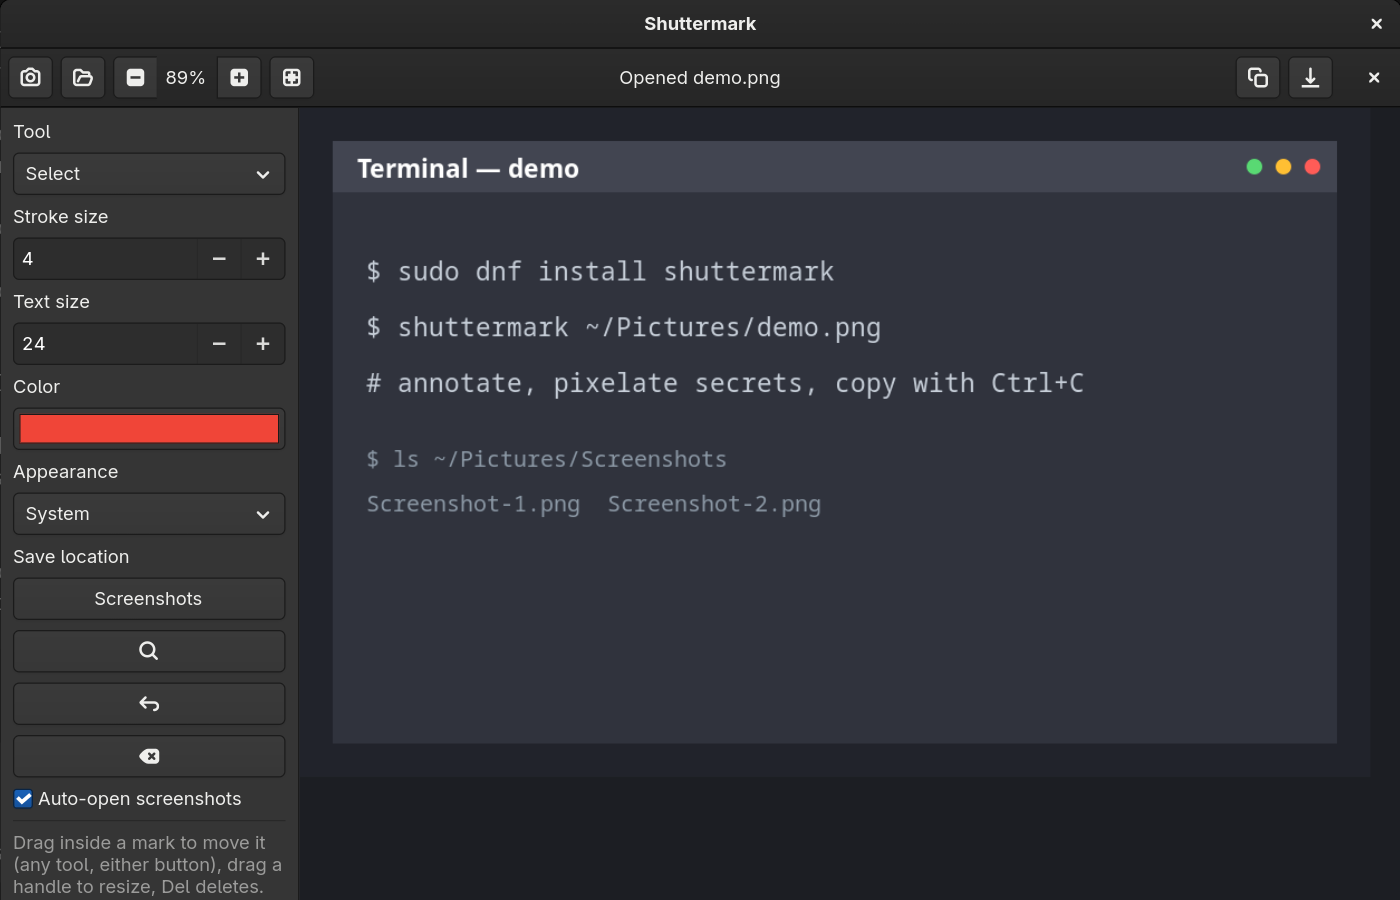
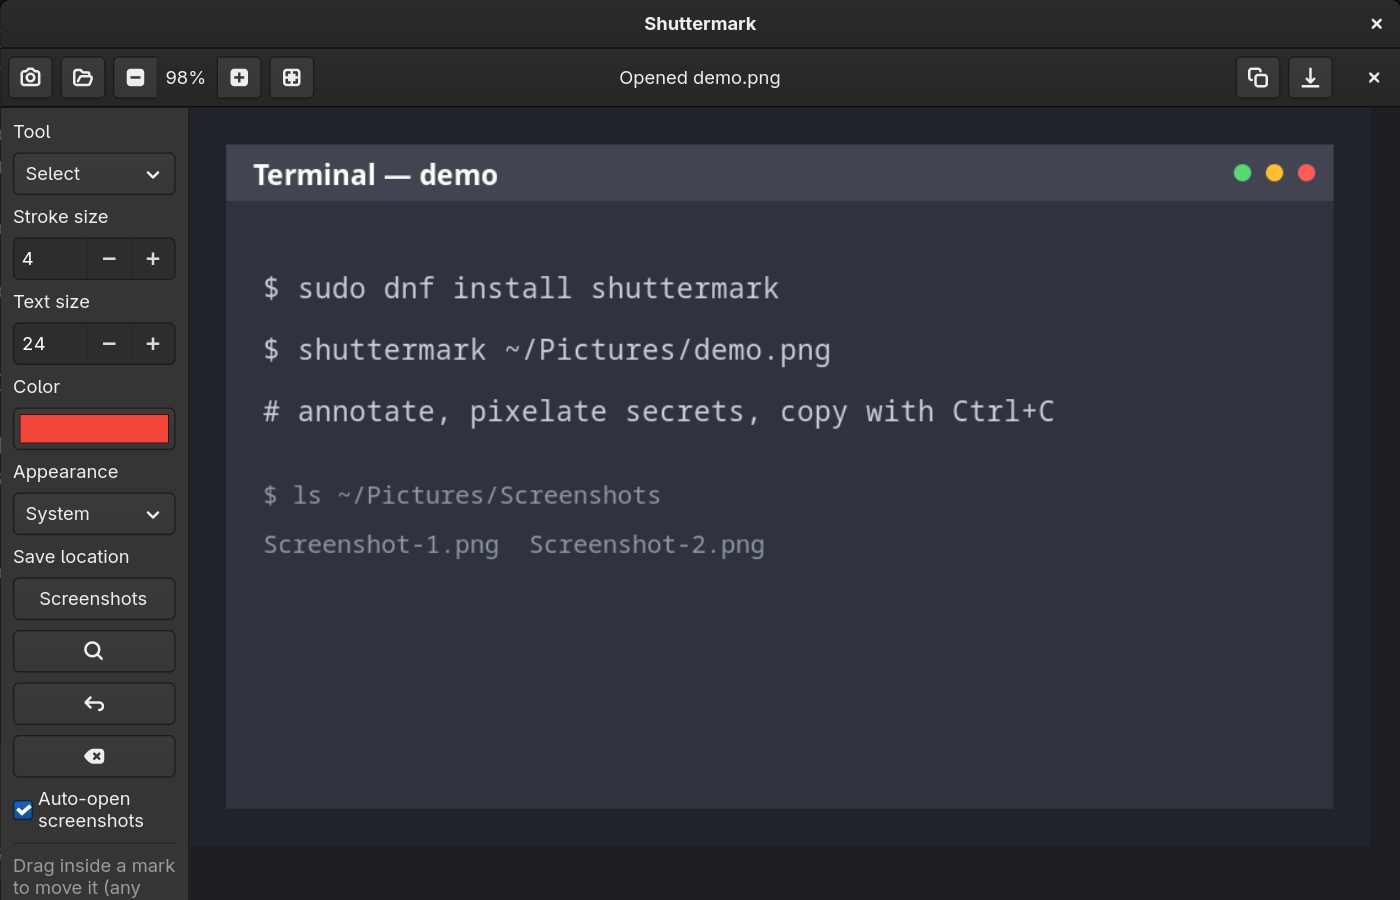
Slim sidebar to 150px, auto-collapse and refit image on load

diff --git a/shuttermark.py b/shuttermark.py
@@ -30,8 +30,9 @@ from gi.repository import Gtk, Gdk, GdkPixbuf, Gio, GLib, Pango, PangoCairo
 
 
 APP_ID = "io.github.byanurag.shuttermark"
-VERSION = "0.6.1"
+VERSION = "0.6.2"
 DEBUG = os.environ.get("SHUTTERMARK_DEBUG") == "1"
+SIDEBAR_WIDTH = 150
 INK = (0.94, 0.27, 0.22, 1.0)
 HIGHLIGHT = (1.0, 0.82, 0.15, 0.42)
 TOOLS = ("Select", "Pen", "Arrow", "Rectangle", "Ellipse", "Text", "Highlight", "Pixelate")
@@ -324,6 +325,20 @@ def paint_pixelated_pixbuf(cr, pixbuf, x, y, w, h, block=PIXEL_BLOCK):
     cr.fill()
 
 
+class CanvasScroll(Gtk.ScrolledWindow):
+    """ScrolledWindow that reports viewport resizes (GTK4 has no
+    size-allocate signal, so we hook the allocator instead)."""
+
+    def __init__(self, on_resize):
+        super().__init__(hexpand=True, vexpand=True)
+        self._on_resize = on_resize
+
+    def do_size_allocate(self, width, height, baseline):
+        Gtk.ScrolledWindow.do_size_allocate(self, width, height, baseline)
+        if self._on_resize is not None:
+            self._on_resize(width, height)
+
+
 class Canvas(Gtk.DrawingArea):
     def __init__(self, window):
         super().__init__()
@@ -368,8 +383,9 @@ class Canvas(Gtk.DrawingArea):
         self._move_grab = None
         self._resize_grab = None
         self.queue_draw()
-        # Shrink-to-fit once laid out so whole screenshots are visible.
-        GLib.idle_add(lambda: (self.window.zoom_fit(), False)[1])
+        # Collapse the sidebar and shrink-to-fit once laid out so whole
+        # screenshots are visible even on small screens.
+        GLib.idle_add(lambda: (self.window.fit_layout(), False)[1])
 
     def image_coords(self, x, y):
         z = self.zoom or 1.0
@@ -907,11 +923,16 @@ class Shuttermark(Gtk.ApplicationWindow):
         sidebar.set_margin_start(10)
         sidebar.set_margin_end(10)
         side_scroll = Gtk.ScrolledWindow(hscrollbar_policy=Gtk.PolicyType.NEVER)
-        side_scroll.set_size_request(168, -1)
+        side_scroll.set_size_request(SIDEBAR_WIDTH, -1)
         side_scroll.set_child(sidebar)
         pane = Gtk.Paned(orientation=Gtk.Orientation.HORIZONTAL)
         root.append(pane)
         pane.set_start_child(side_scroll)
+        # Keep the sidebar at its minimum: extra window space always
+        # goes to the canvas, and the divider can't squeeze it further.
+        pane.set_shrink_start_child(False)
+        pane.set_resize_start_child(False)
+        self.pane = pane
         self.tool_model = Gtk.StringList.new(TOOLS)
         dropdown = Gtk.DropDown(model=self.tool_model)
         dropdown.set_selected(0)  # Select: marks are movable from the start
@@ -976,11 +997,16 @@ class Shuttermark(Gtk.ApplicationWindow):
         helptext.add_css_class("dim-label")
         sidebar.append(helptext)
 
-        scroll = Gtk.ScrolledWindow(hexpand=True, vexpand=True)
+        scroll = CanvasScroll(self._on_viewport_resized)
         self.canvas = Canvas(self)
         scroll.set_child(self.canvas)
         pane.set_end_child(scroll)
         self.scroll = scroll
+        # While the image is in auto-fit mode (fresh load or Fit),
+        # keep it fitted when the canvas area changes (window resize,
+        # sidebar drag). Any manual zoom turns this off.
+        self._auto_zoom = True
+        self._refit_pending = False
 
         keys = Gtk.ShortcutController()
         keys.add_shortcut(Gtk.Shortcut.new(
@@ -1036,9 +1062,11 @@ class Shuttermark(Gtk.ApplicationWindow):
         self.canvas.queue_draw()
 
     def bump_zoom(self, factor):
+        self._auto_zoom = False
         self.set_zoom(self.canvas.zoom * factor)
 
-    def zoom_fit(self, _retries=5):
+    def zoom_fit(self, _retries=10):
+        self._auto_zoom = True
         if not self.canvas.pixbuf:
             return
         vw, vh = self.scroll.get_width() - 24, self.scroll.get_height() - 24
@@ -1048,6 +1076,33 @@ class Shuttermark(Gtk.ApplicationWindow):
         iw = self.canvas.pixbuf.get_width()
         ih = self.canvas.pixbuf.get_height()
         self.set_zoom(min(vw / iw, vh / ih, 1.0))
+
+    def fit_layout(self, _retries=10):
+        """Collapse the sidebar to its minimum and fit the image.
+
+        Called on every image load so small screens always show as
+        much of the picture as possible.
+        """
+        try:
+            self.pane.set_position(SIDEBAR_WIDTH)
+        except (AttributeError, TypeError):
+            pass
+        self.zoom_fit(_retries=_retries)
+
+    def _on_viewport_resized(self, _width, _height):
+        if not getattr(self, "_auto_zoom", False):
+            return
+        if self.canvas.pixbuf is None or self._refit_pending:
+            return
+        self._refit_pending = True
+
+        def _do():
+            self._refit_pending = False
+            if self._auto_zoom and self.canvas.pixbuf is not None:
+                self.zoom_fit()
+            return False
+
+        GLib.idle_add(_do)
 
     def _make_color_button(self):
         rgba = Gdk.RGBA()
